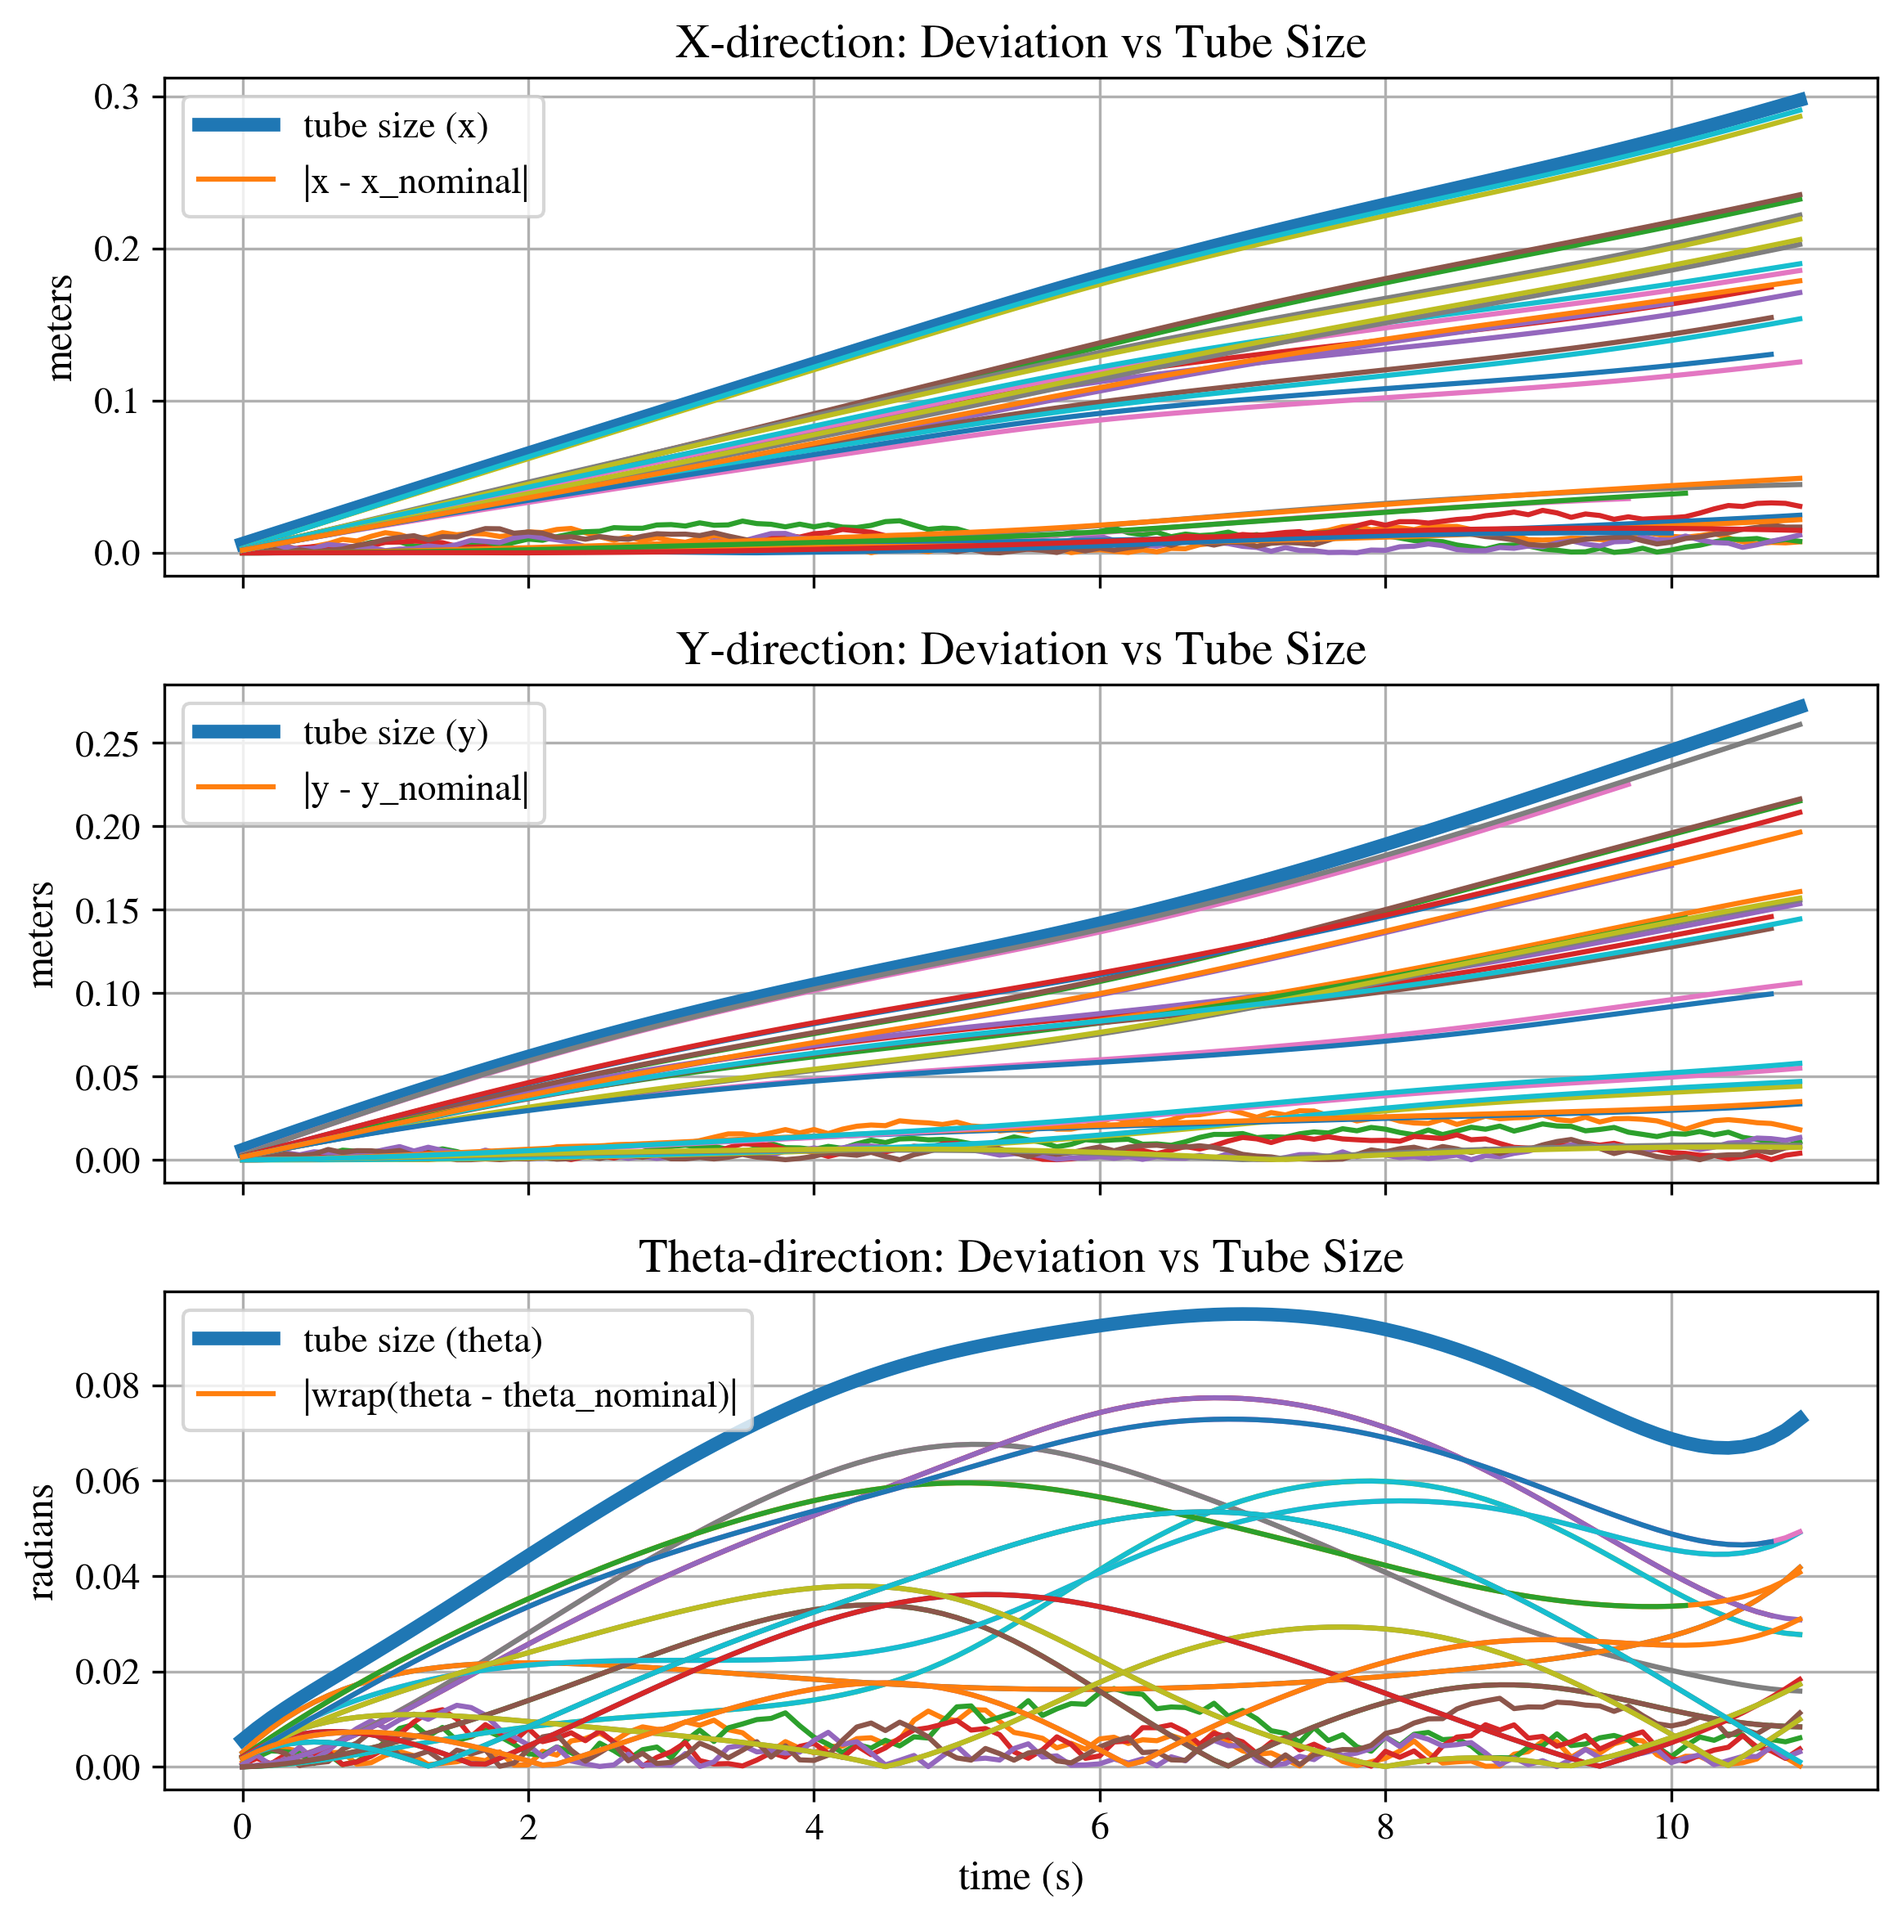
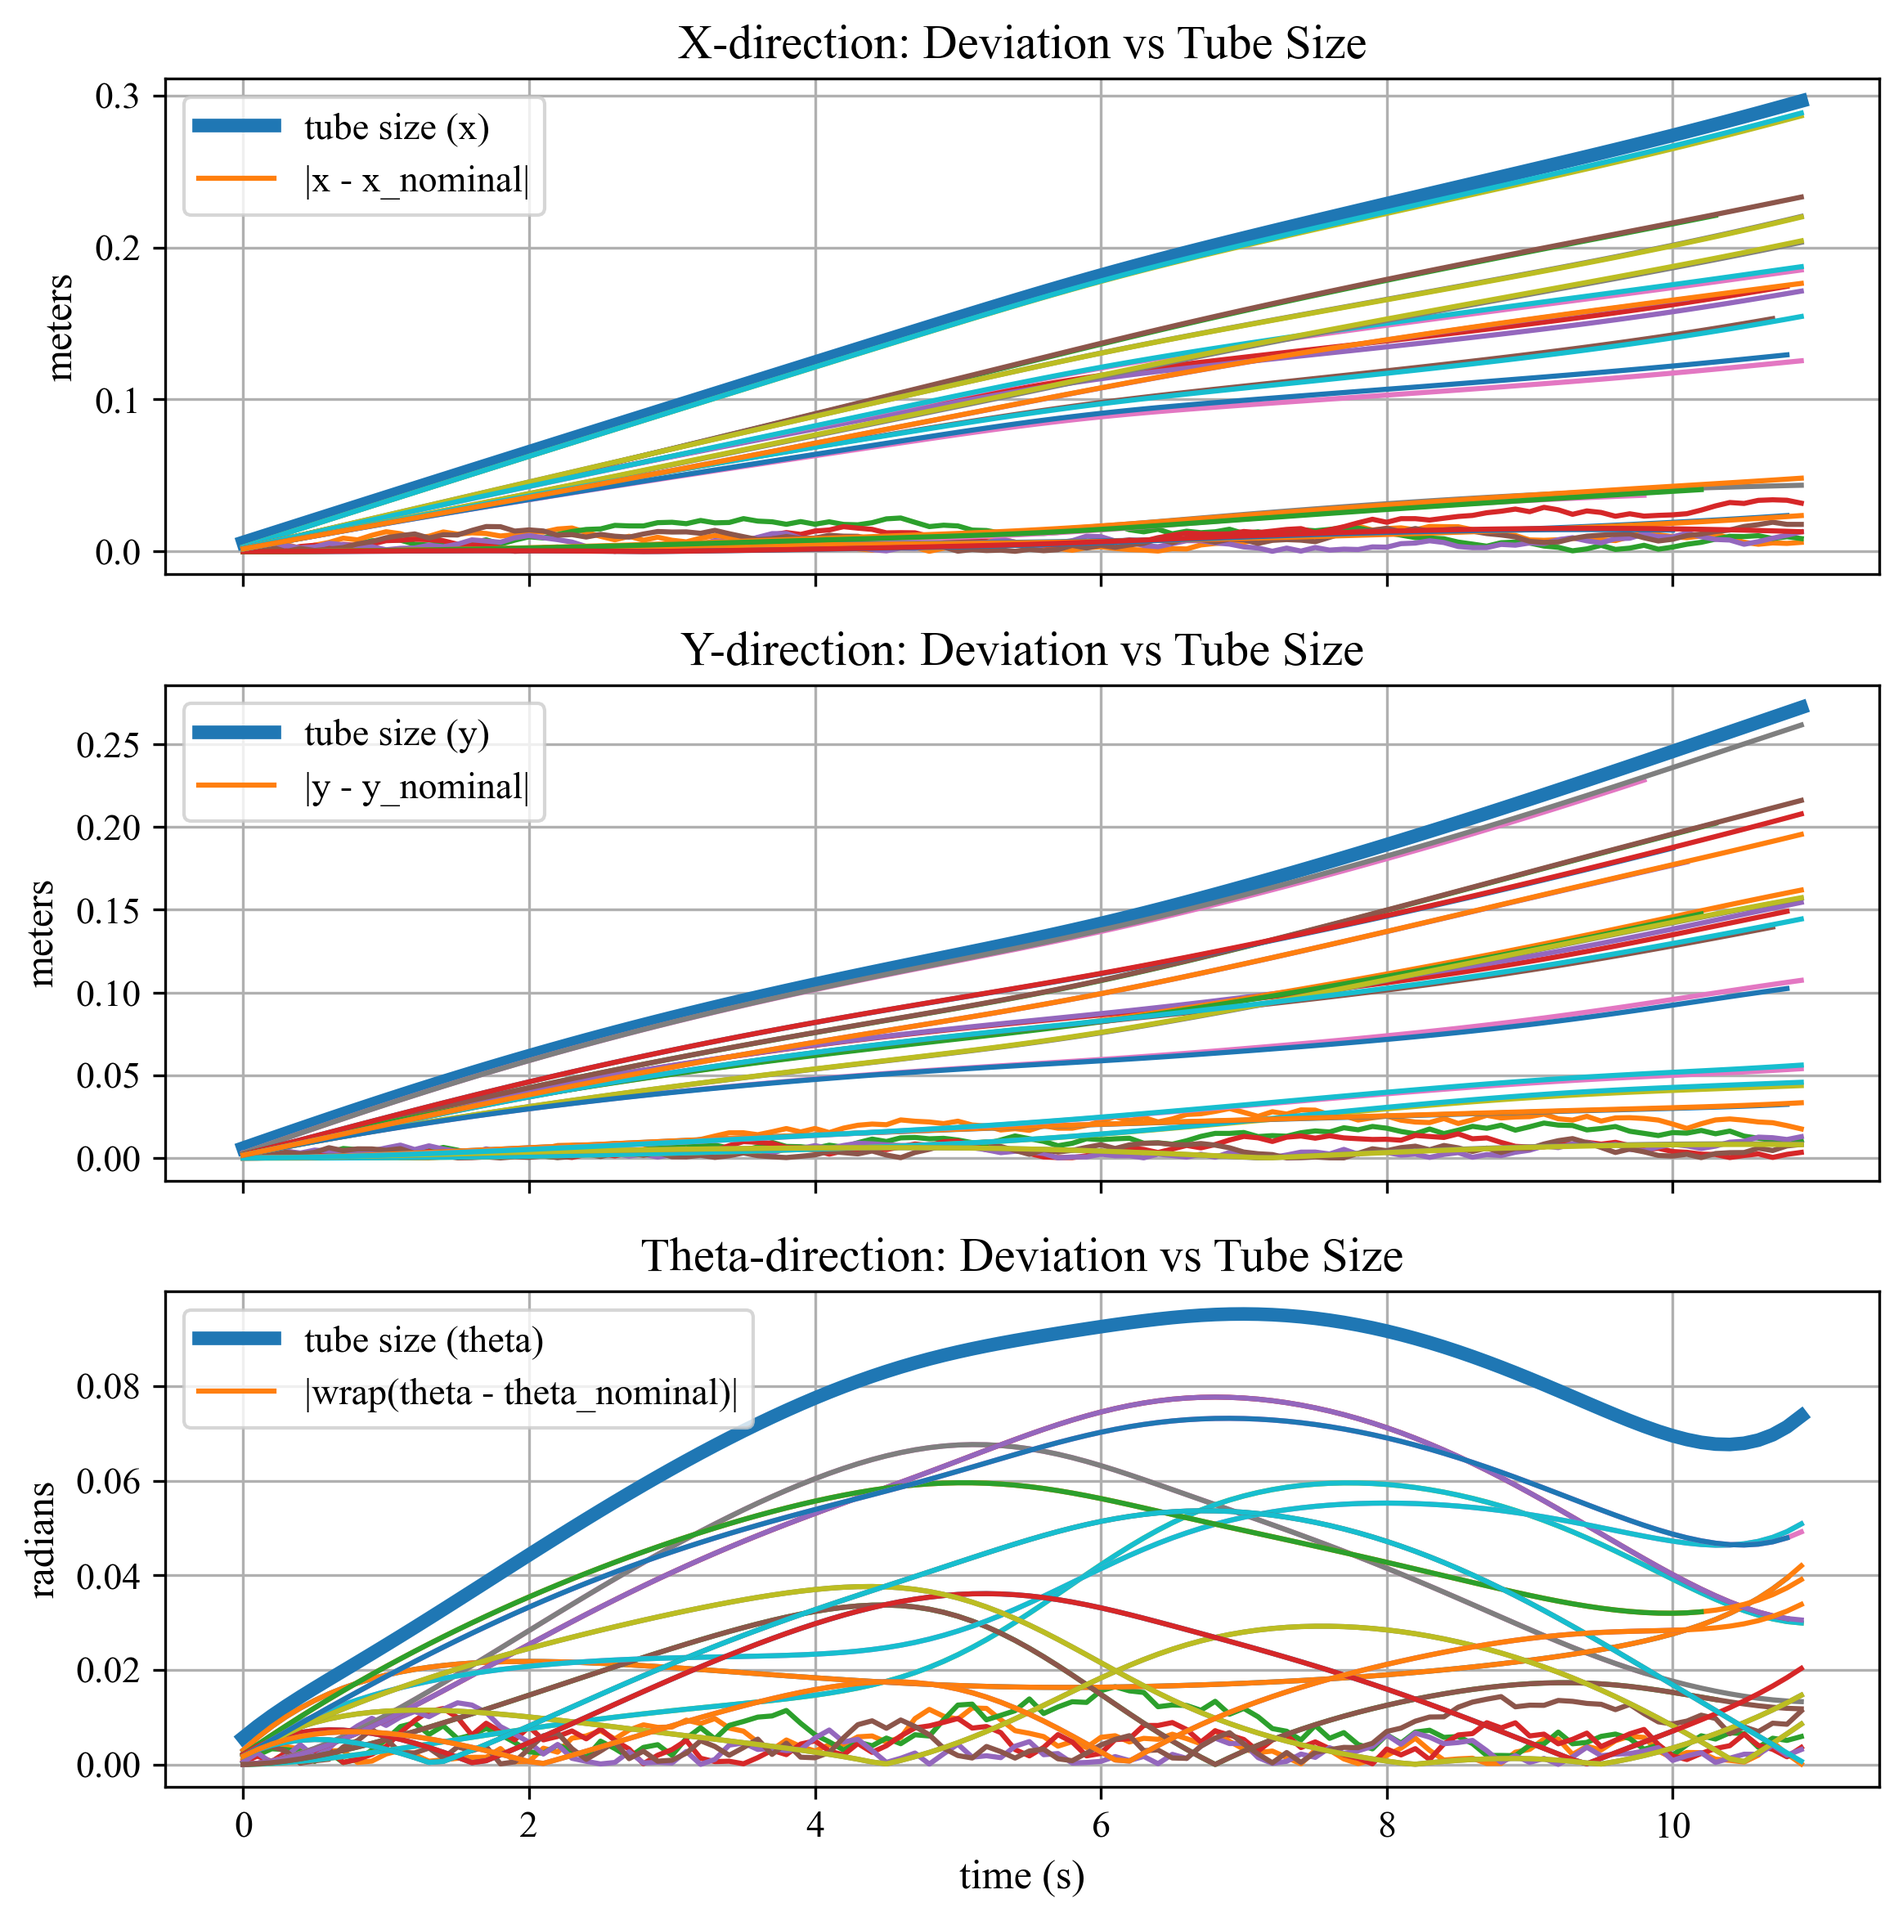
add rope

diff --git a/src/gpu_sls/gpu_admm.py b/src/gpu_sls/gpu_admm.py
@@ -536,9 +536,9 @@ def constrained_solve(cfg: ADMMConfig, Q, q, R, r, M, A, B, c, C, D, f, w, y, rh
 
     it, _, _, _, _, _, x_bar, u_bar, y_bar, w_bar, rho_final, _, _, _, P_final, p_final, K, rp_norm, rd_norm, eps_pri, eps_dual, converged = out
     v = dual_lqr(x_bar, P_final, p_final)
-    jax.debug.print(
-        "ADMM done: Total Iterations={} converged={} rho={:.3e} rp={:.3e} (<= {:.3e}) rd={:.3e} (<= {:.3e}) Rho0 {:.3e}",
-        it - 1, converged, rho_final, rp_norm, eps_pri, rd_norm, eps_dual, rho0
-    )
+    # jax.debug.print(
+    #     "ADMM done: Total Iterations={} converged={} rho={:.3e} rp={:.3e} (<= {:.3e}) rd={:.3e} (<= {:.3e}) Rho0 {:.3e}",
+    #     it - 1, converged, rho_final, rp_norm, eps_pri, rd_norm, eps_dual, rho0
+    # )
     mu = rho_final * y_bar
     return x_bar, u_bar[:-1], v, w_bar, y_bar, rho_final, mu, converged

diff --git a/examples/dubins_car/dubins_car.py b/examples/dubins_car/dubins_car.py
@@ -342,7 +342,7 @@ def main():
     for i in range(N_ROLLOUTS):
         disturbance_history = [jnp.zeros((n,), dtype=jnp.float64)]
         x = x0
-        jax.debug.print(f"Rolling out iteration {i}")
+        # jax.debug.print(f"Rolling out iteration {i}")
         for k in range(T_steps):
             if bool(reached_goal_xy(x, x_goal, GOAL_TOL)):
                 stop_steps[i] = k

diff --git a/examples/rope/test_metal.py b/examples/rope/test_metal.py
@@ -1,0 +1,3 @@
+import jax
+print(jax.devices())
+print(jax.default_backend())
